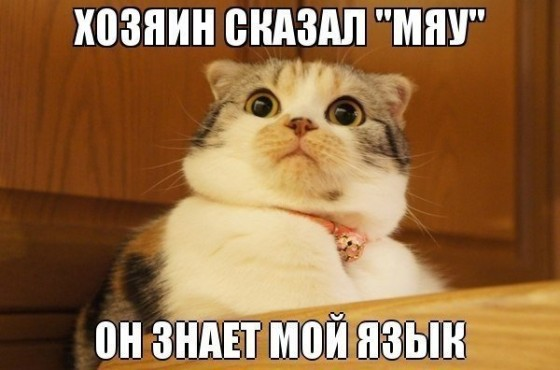
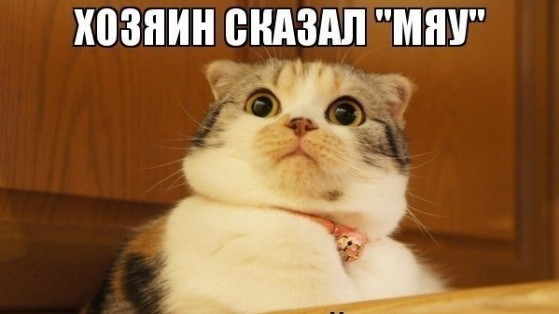
feat: add slider text, corrected img суббота, Сентябрь 16, 2023, 10:53:15

diff --git a/cssMemeSlider/index.html b/cssMemeSlider/index.html
@@ -8,20 +8,20 @@
 </head>
 <body>
     <div class="slider__container">
-        <div class="mySlides fade">
+        <div class="slide fade">
             <img src="./img/cat1.jpg" alt="cat" class="slider__img" width="100%">
-            <p class="text">Хозяин сказал "Мяу", он знает мой язык?</p>
+            <p class="text">Хозяин сказал "Мяу"</p>
         </div>
-        <div class="mySlides fade">
-            <img src="./img/cat5.jpg" alt="cat" class="slider__img" width="100%">
+        <div class="slide fade">
+            <img src="./img/cat2.jpg" alt="cat" class="slider__img" width="100%">
             <p class="text">Удивительно!</p>
         </div>
-        <div class="mySlides fade">
-            <img src="./img/cat6.jpg" alt="cat" class="slider__img" width="100%">
+        <div class="slide fade">
+            <img src="./img/cat3.jpg" alt="cat" class="slider__img" width="100%">
             <p class="text">Неописуемо!</p>
         </div>
-        <div class="mySlides fade">
-            <img src="./img/cat7.jpg" alt="cat" class="slider__img" width="100%">
+        <div class="slide fade">
+            <img src="./img/cat4.jpg" alt="cat" class="slider__img" width="100%">
             <p class="text">Потрясающе!</p>
         </div>
         <div class="points">

diff --git a/cssMemeSlider/style.css b/cssMemeSlider/style.css
@@ -20,11 +20,9 @@ html{
     background-color: rgb(73, 70, 70);
 }
 
-
-.container__buttom{
-    margin-top: 1.25rem;
-    display: flex;
-    justify-content: space-between;
+.slider__img{
+    max-width: 64rem;
+    max-height: 36rem;
 }
 
 .points{
@@ -45,11 +43,7 @@ html{
     background-color: white;
     margin: 0 0.125rem;
     display: inline-block;
-    transition: background-color 0.6s ease;
-}
-
-.slider__text{
-
+    transition: background-color 1s ease;
 }
 
 .text{
@@ -64,9 +58,9 @@ html{
 
 .fade{
     -webkit-animation-name: fade;
-    -webkit-animation-duration: 1.5s;
+    -webkit-animation-duration: 2.5s;
     animation-name: fade;
-    animation-duration: 1.5s;
+    animation-duration: 2.5s;
 }
 
 @-webkit-keyframes fade{
@@ -77,6 +71,3 @@ html{
     from{opacity: .4}
     to{opacity: 1;}
  }
-
-
-

diff --git a/cssMemeSlider/index.js b/cssMemeSlider/index.js
@@ -16,7 +16,7 @@ function plusSlides(n) {
 
 function showSlides(n) {
     let i;
-    let slides = document.getElementsByClassName("slider__img");
+    let slides = document.getElementsByClassName("slide");
     let dots = document.getElementsByClassName("dot");
 
     if(n > slides.length) {
